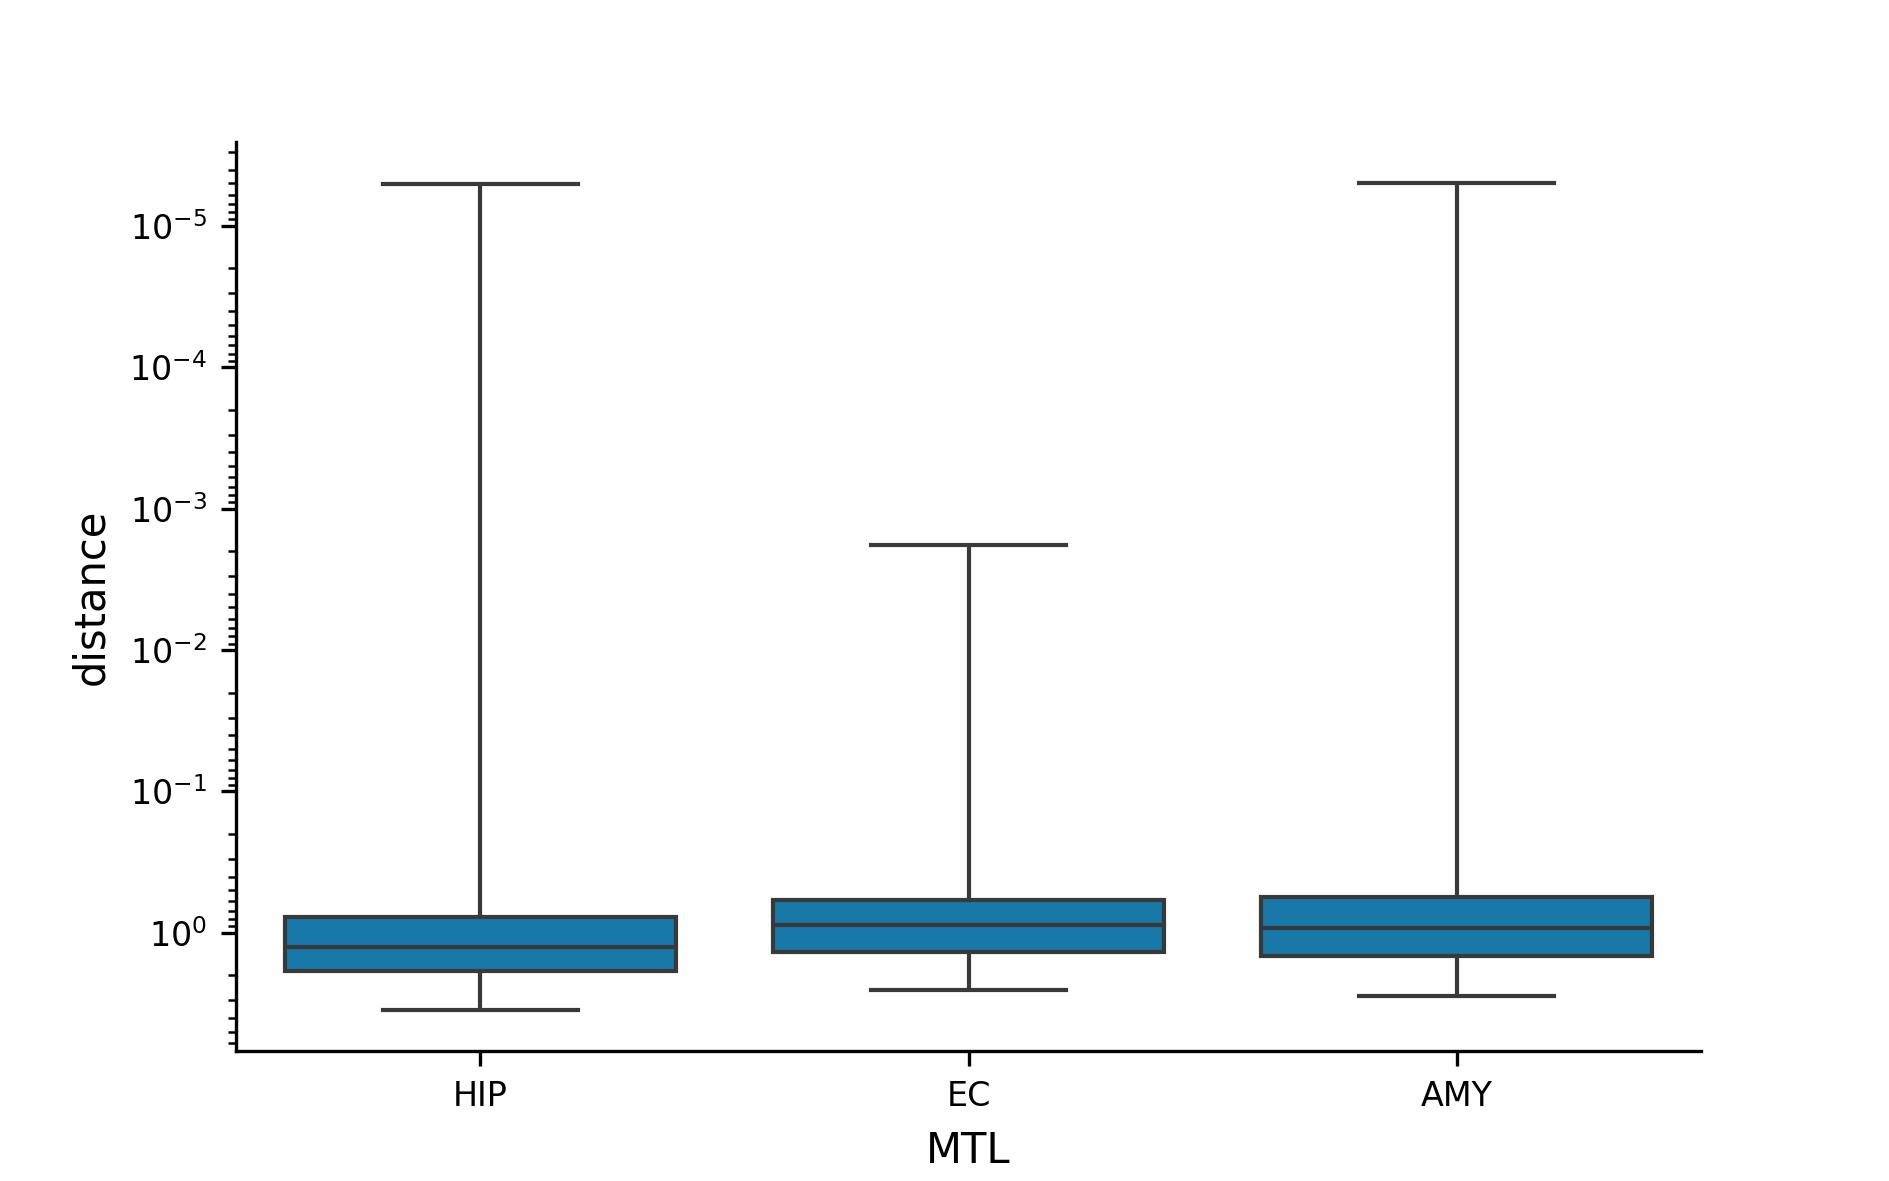
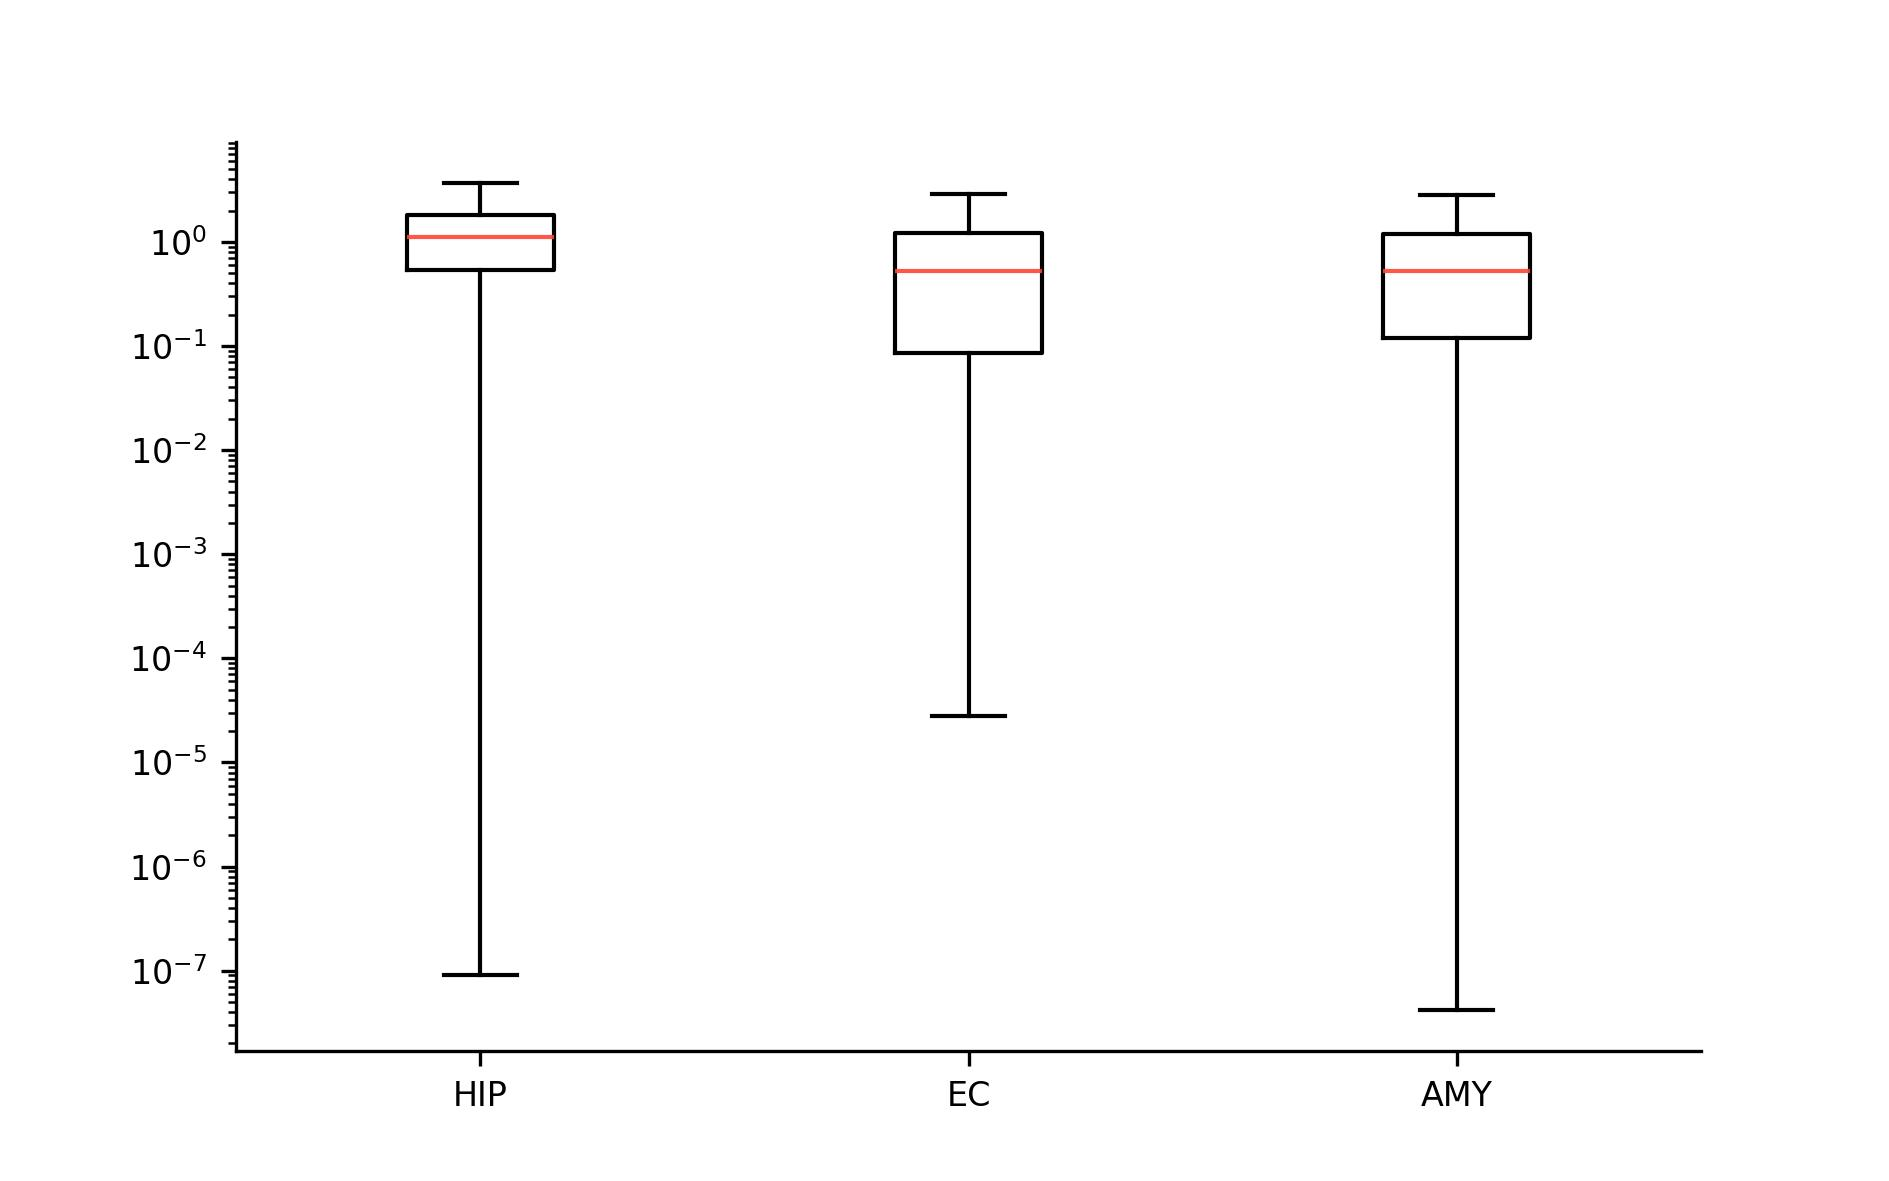
.

diff --git a/scripts/NT/distance/between_gs_of_MTL_regions.py b/scripts/NT/distance/between_gs_of_MTL_regions.py
@@ -7,6 +7,7 @@
 
 
 """Imports"""
+import itertools
 import sys
 from itertools import combinations
 
@@ -15,70 +16,13 @@ import matplotlib.pyplot as plt
 import mngs
 import numpy as np
 import pandas as pd
+import xarray as xr
 from scipy.linalg import norm
-
-sys.path = ["."] + sys.path
-try:
-    from scripts import utils
-except Exception as e:
-    pass
-from scripts.NT.distance.from_O_of_MTL_regions import load_trajs
 
 """Config"""
 CONFIG = mngs.gen.load_configs()
 
 """Functions & Classes"""
-
-
-def calc_dist_between_gs(traj_MTL_region):
-    nan_mask = np.isnan(traj_MTL_region).any(axis=(-2, -1))
-    traj_MTL_region = traj_MTL_region[~nan_mask]
-
-    gs = np.stack(
-        [
-            mngs.linalg.geometric_median(
-                traj_MTL_region[..., v.mid_start : v.mid_end], axis=-1
-            )
-            for k, v in CONFIG.PHASES.items()
-        ],
-        axis=-1,
-    )
-
-    dist_between_gs = []
-    for ii, jj in combinations(np.arange(gs.shape[-1]), 2):  # 6 patterns
-        v1 = gs[..., ii]
-        v2 = gs[..., jj]
-        _dist_between_gs = norm(v1 - v2, axis=-1)
-        dist_between_gs.append(_dist_between_gs)
-    return np.hstack(dist_between_gs)
-
-
-def plot_box(dist):
-    fig, ax = mngs.plt.subplots()
-    ax.sns_boxplot(
-        data=dist,
-        x="MTL",
-        y="distance",
-        showfliers=False,
-        order=["HIP", "EC", "AMY"],
-    )
-    ax.set_yscale("log")
-    return fig
-
-
-def main():
-    traj = load_trajs()
-
-    dist = {k: calc_dist_between_gs(v) for k, v in traj.items()}
-    dist = mngs.pd.force_df(dist).melt()
-    dist = dist.rename(columns={"variable": "MTL", "value": "distance"})
-
-    fig = plot_box(dist)
-    mngs.io.save(
-        fig,
-        "./data/NT/distance/between_gs_of_MTL_regions_box.jpg",
-        from_cwd=True,
-    )
 
 
 def load_gs():
@@ -87,31 +31,84 @@ def load_gs():
     gs = {}
     for mtl in CONFIG.ROI.MTL.keys():
         lpaths_mtl = mngs.gen.search(CONFIG.ROI.MTL[mtl], LPATHS)[1]
-        # gs[mtl] = np.vstack([mngs.io.load(lpath) for lpath in lpaths_mtl])
-        gs[mtl] = pd.concat([mngs.io.load(lpath) for lpath in lpaths_mtl])
+        print(len(lpaths_mtl))
+        das = [mngs.io.load(lpath) for lpath in lpaths_mtl]
+        gs[mtl] = xr.concat(das, dim="session", coords="minimal")
     return gs
 
 
-def main2():
+def calc_distances_between_gs(gs_mtl):
+    phases = ["Fixation", "Encoding", "Maintenance", "Retrieval"]
+    phase_combinations = list(itertools.combinations(phases, 2))
+
+    distances = []
+    for phase1, phase2 in phase_combinations:
+
+        v1 = np.array(gs_mtl.sel(phase=phase1))
+        v2 = np.array(gs_mtl.sel(phase=phase2))
+
+        v1 = v1.reshape(-1, v1.shape[-1])
+        v2 = v2.reshape(-1, v2.shape[-1])
+
+        mask = ~(np.isnan(v1).any(axis=-1) + np.isnan(v2).any(axis=-1))
+
+        distance = norm(v1[mask] - v2[mask], axis=-1)
+
+        distances.append(distance)
+
+    return np.hstack(distances)
+
+
+# def plot_box(dist):
+#     fig, ax = mngs.plt.subplots()
+#     dist = dist[~dist.isna().any(axis=1)]
+#     ax.sns_boxplot(
+#         data=dist,
+#         x="MTL",
+#         y="distance",
+#         showfliers=False,
+#         order=["HIP", "EC", "AMY"],
+#     )
+#     ax.set_yscale("log")
+#     return fig
+
+
+def plot_box(dist):
+    fig, ax = mngs.plt.subplots()
+    dist = dist[~dist.isna().any(axis=1)]
+
+    labels = ["HIP", "EC", "AMY"]
+    data = [dist[dist.MTL == ll].distance for ll in labels]
+    print([len(dd) for dd in data])  # [7338, 5016, 6198]
+
+    ax.boxplot(
+        data,
+        labels=labels,
+        showfliers=False,
+    )
+    ax.set_yscale("log")
+    return fig
+
+
+def main():
     gs = load_gs()
-    pd.concat(gs).reset_index()
-    gs.groupby(["factor"])()
-    __import__("ipdb").set_trace()
-
-    # dist = {k: calc_dist_between_gs(v) for k, v in traj.items()}
-    # dist = mngs.pd.force_df(dist).melt()
-    # dist = dist.rename(columns={"variable": "MTL", "value": "distance"})
-
-    # fig = plot_box(dist)
-    # mngs.io.save(
-    #     fig,
-    #     "./data/NT/distance/between_gs_of_MTL_regions_box.jpg",
-    #     from_cwd=True,
-    # )
+    dists = {k: calc_distances_between_gs(gs_mtl) for k, gs_mtl in gs.items()}
+    dists = {k: np.hstack(v) for k, v in dists.items()}
+    dists = (
+        mngs.pd.force_df(dists)
+        .melt()
+        .rename(columns={"variable": "MTL", "value": "distance"})
+    )
+    dists = dists[~dists.isna().any(axis=1)]
+    fig = plot_box(dists)
+    mngs.io.save(
+        fig,
+        "./data/NT/distance/between_gs_of_MTL_regions_box.jpg",
+        from_cwd=True,
+    )
 
 
 if __name__ == "__main__":
-    # Main
     CONFIG, sys.stdout, sys.stderr, plt, CC = mngs.gen.start(
         sys,
         plt,
@@ -119,5 +116,7 @@ if __name__ == "__main__":
         agg=True,
     )
     main()
-    main2()
     mngs.gen.close(CONFIG, verbose=False, notify=False)
+
+# /tmp/fake-ywatanabe/data/NT/distance/between_gs_of_MTL_regions_box.jpg
+# /mnt/ssd/ripple-wm-code/scripts/NT/distance/between_gs_of_MTL_regions/data/NT/distance/between_gs_of_MTL_regions_box.jpg

diff --git a/scripts/NT/distance/geometrics_medians.py b/scripts/NT/distance/geometrics_medians.py
@@ -56,12 +56,15 @@ def main():
             .to_array()
             .rename(
                 {
-                    "variable": "coordinate",
+                    "variable": "factor",
                     "level_0": "phase",
-                    "level_1": "factor",
+                    "level_1": "trial",
                 }
             )
         )
+        gs_trial["factor"] = [f[0] for f in gs_trial["factor"].values]
+        gs_trial = gs_trial.transpose("trial", "factor", "phase")
+
         mngs.io.save(
             gs_trial,
             lpath_NT.replace(".npy", "/gs_trial.pkl"),

diff --git a/scripts/NT/distance/from_O_of_MTL_regions.py b/scripts/NT/distance/from_O_of_MTL_regions.py
@@ -16,12 +16,6 @@ import numpy as np
 import pandas as pd
 from scipy.linalg import norm
 
-sys.path = ["."] + sys.path
-try:
-    from scripts import utils
-except Exception as e:
-    pass
-
 """Config"""
 CONFIG = mngs.gen.load_configs()
 
